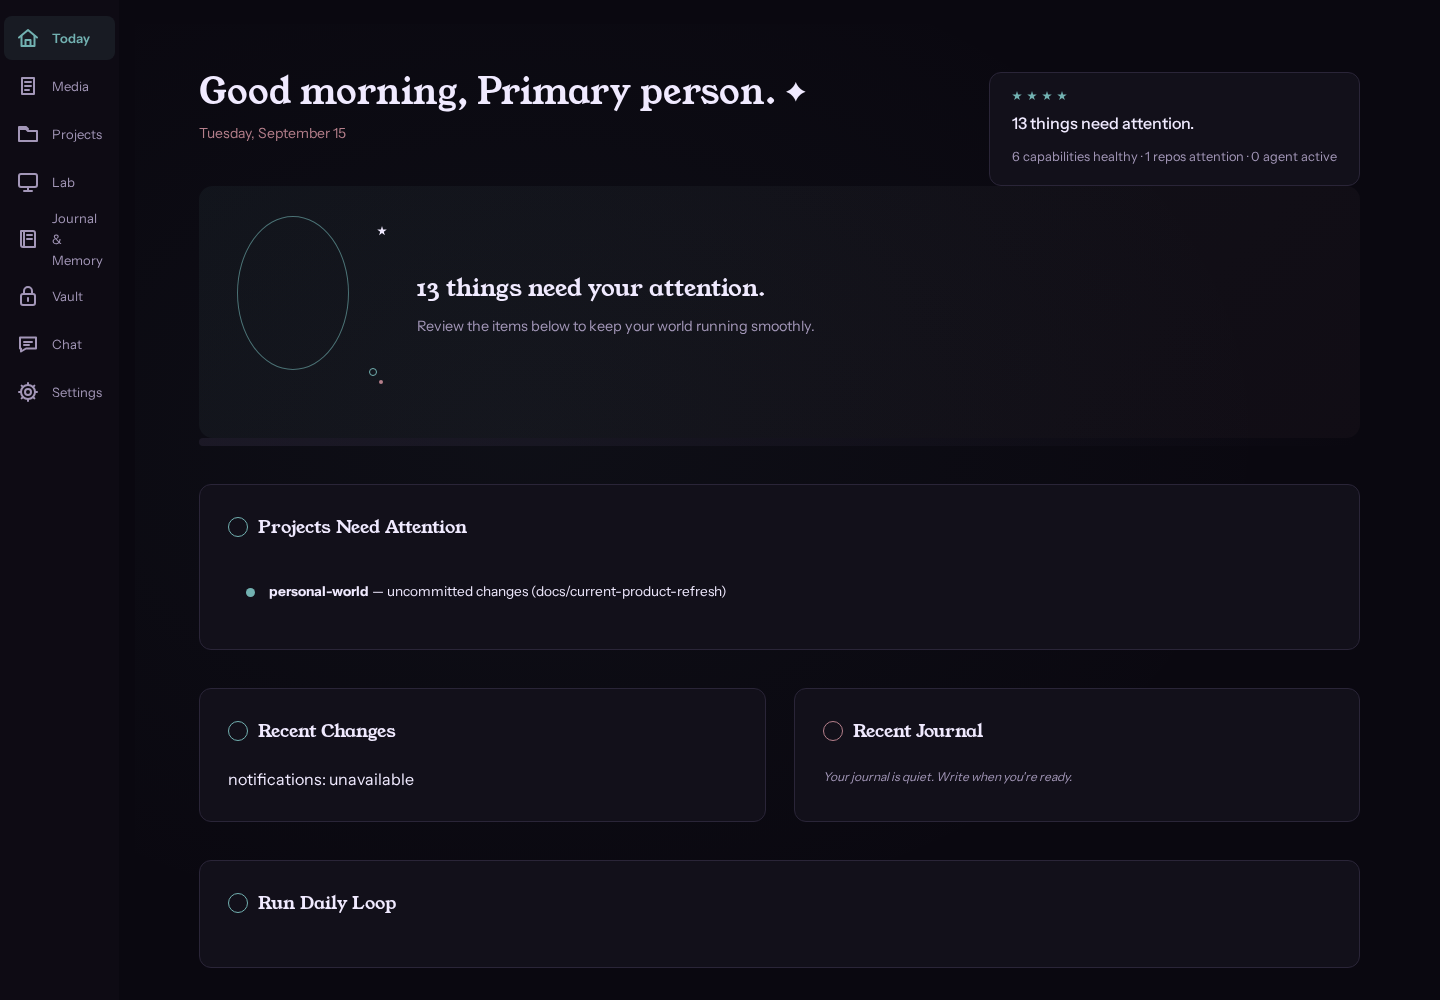
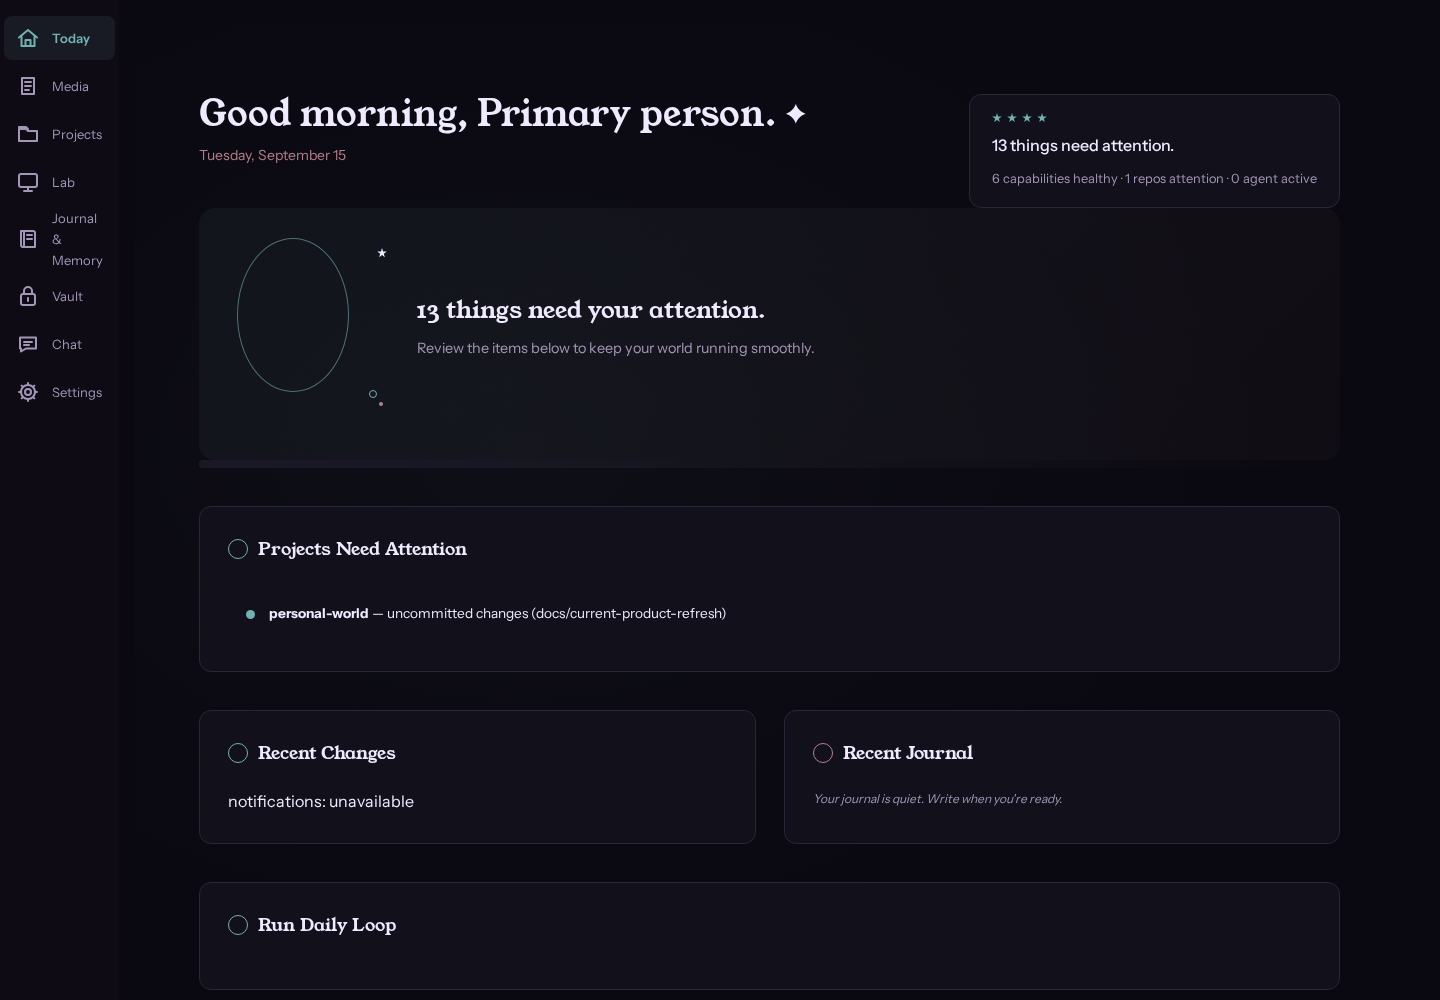
fix(design): tokens.css regenerated post-merge (merge dropped lane's warmth entries); screenshots refreshed

diff --git a/frontend/src/tokens.css b/frontend/src/tokens.css
@@ -14,7 +14,6 @@
   --pw-color-text-secondary: #a397b8;
   --pw-color-text-muted: #9185a8;
   --pw-color-accent-primary: #72b1b1;
-  --pw-color-accent-on-primary: #0a2830;
   --pw-color-accent-primary-bright: #a5dbd7;
   --pw-color-accent-secondary: #b57f8b;
   --pw-color-accent-gold: #e4c58d;
@@ -30,31 +29,6 @@
   --pw-color-warmth-rose-wash-soft: rgba(181,127,139,0.09);
   --pw-color-warmth-aura-rose: radial-gradient(circle, rgba(181,127,139,0.18) 0%, rgba(0,0,0,0) 70%);
   --pw-color-warmth-teal-reassure: rgba(114,177,177,0.05);
-  --pw-color-warmth-teal-dust: rgba(114,177,177,0.02);
-  --pw-color-warmth-teal-breath-light: rgba(114,177,177,0.03);
-  --pw-color-warmth-teal-ghost: rgba(114,177,177,0.04);
-  --pw-color-warmth-teal-whisper: rgba(114,177,177,0.06);
-  --pw-color-warmth-teal-calm: rgba(114,177,177,0.07);
-  --pw-color-warmth-teal-mist: rgba(114,177,177,0.08);
-  --pw-color-warmth-teal-breath: rgba(114,177,177,0.1);
-  --pw-color-warmth-teal-touch: rgba(114,177,177,0.12);
-  --pw-color-warmth-teal-veil: rgba(114,177,177,0.14);
-  --pw-color-warmth-teal-glow: rgba(114,177,177,0.18);
-  --pw-color-warmth-teal-halo: rgba(114,177,177,0.2);
-  --pw-color-warmth-teal-deep: rgba(114,177,177,0.3);
-  --pw-color-warmth-teal-bold: rgba(114,177,177,0.7);
-  --pw-color-warmth-rose-dust: rgba(181,127,139,0.02);
-  --pw-color-warmth-rose-breath-light: rgba(181,127,139,0.03);
-  --pw-color-warmth-rose-ghost: rgba(181,127,139,0.04);
-  --pw-color-warmth-rose-mist: rgba(181,127,139,0.05);
-  --pw-color-warmth-rose-whisper: rgba(181,127,139,0.06);
-  --pw-color-warmth-rose-breath: rgba(181,127,139,0.1);
-  --pw-color-warmth-rose-touch: rgba(181,127,139,0.15);
-  --pw-color-warmth-rose-halo: rgba(181,127,139,0.2);
-  --pw-color-warmth-rose-veil: rgba(181,127,139,0.25);
-  --pw-color-warmth-rose-deep: rgba(181,127,139,0.3);
-  --pw-color-warmth-rose-bold: rgba(181,127,139,0.7);
-  --pw-color-warmth-canvas-shadow: rgba(10,8,16,0.4);
   --pw-color-warmth-glass-pill: rgba(255,255,255,0.03);
   --pw-color-vault-panel-translucent: rgba(18,16,26,0.85);
   --pw-color-vault-store-panel: rgba(26,23,36,0.91);
@@ -103,9 +77,6 @@
   --pw-spacing-normal: 0.5rem;
   --pw-spacing-loose: 1rem;
   --pw-spacing-section: 1.5rem;
-  --pw-spacing-page-top: 48px;
-  --pw-spacing-page-side: 64px;
-  --pw-spacing-page-bottom: 80px;
 }
 
 :root {
@@ -124,25 +95,6 @@
   --pw-typography-font-interface: Instrument Sans;
   --pw-typography-text-scale-base: 1rem;
   --pw-typography-line-height-body: 1.6;
-  --pw-typography-heading-page: 2.25rem;
-  --pw-typography-heading-section: 1.25rem;
-  --pw-typography-heading-subsection: 1rem;
-  --pw-typography-text-body: 0.875rem;
-  --pw-typography-text-detail: 0.8125rem;
-  --pw-typography-text-caption: 0.75rem;
-}
-
-:root {
-  --pw-radius-panel: 14px;
-  --pw-radius-card: 12px;
-  --pw-radius-control: 8px;
-  --pw-radius-pill: 999px;
-}
-
-:root {
-  --pw-shadow-warmth-glow-soft: 0 0 12px 1px rgba(114,177,177,0.12);
-  --pw-shadow-warmth-glow-medium: 0 0 24px 2px rgba(114,177,177,0.18);
-  --pw-shadow-warmth-glow-bright: 0 0 32px 3px rgba(114,177,177,0.25);
 }
 
 :root { --pw-focus-ring: 2px solid #72b1b1; }
